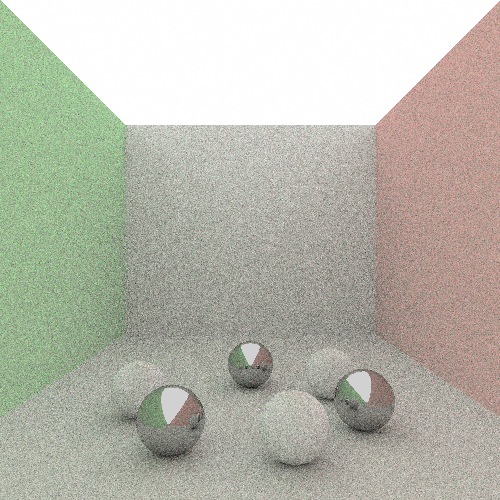
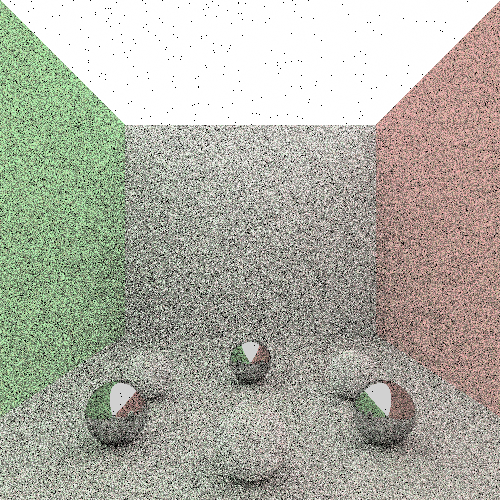
fix sphere alignment

diff --git a/main.go b/main.go
@@ -16,29 +16,31 @@ func main() {
 func buildScene(size float64) *render.Scene {
 	scene := render.NewScene()
 	diffuseMaterial := material.NewDiffuseMaterial(geometry.NewVector(1., 1., 1.), 1.)
-	// redColorMaterial := material.NewDiffuseMaterial(geometry.NewVector(1., 0., 0.), 1.)
-	// greenColorMaterial := material.NewDiffuseMaterial(geometry.NewVector(0., 1., 0.), 1.)
-	// emissiveMaterial := material.NewEmissiveMaterial(geometry.NewVector(1., 1., 1.), 1.)
+	redColorMaterial := material.NewDiffuseMaterial(geometry.NewVector(1., 0., 0.), 1.)
+	greenColorMaterial := material.NewDiffuseMaterial(geometry.NewVector(0., 1., 0.), 1.)
+	emissiveMaterial := material.NewEmissiveMaterial(geometry.NewVector(1., 1., 1.), 1.)
 	reflectiveMaterial := material.NewReflectiveMaterial(.8, 1.)
 
 	floorY := .5*size/2 + size/2
-	// ceilingY := -.75*size/2 + size/2
+	ceilingY := -.75*size/2 + size/2
 
-	// scene.AddObject(diffuseMaterial, geometry.NewPlane(geometry.NewVector(0, 0, .5*size), geometry.NewVector(0, 0, -1.)))
-	// scene.AddObject(diffuseMaterial, geometry.NewPlane(geometry.NewVector(0, 0, -5*size), geometry.NewVector(0, 0, 1.)))
+	scene.AddObject(diffuseMaterial, geometry.NewPlane(geometry.NewVector(0, 0, .5*size), geometry.NewVector(0, 0, -1.)))
+	scene.AddObject(diffuseMaterial, geometry.NewPlane(geometry.NewVector(0, 0, -5*size), geometry.NewVector(0, 0, 1.)))
 
-	// scene.AddObject(redColorMaterial, geometry.NewPlane(geometry.NewVector(.75*size/2+size/2, 0, 0), geometry.NewVector(-1., 0, 0)))
-	// scene.AddObject(greenColorMaterial, geometry.NewPlane(geometry.NewVector(-.75*size/2+size/2, 0, 0), geometry.NewVector(1., 0, 0)))
+	scene.AddObject(redColorMaterial, geometry.NewPlane(geometry.NewVector(.75*size/2+size/2, 0, 0), geometry.NewVector(-1., 0, 0)))
+	scene.AddObject(greenColorMaterial, geometry.NewPlane(geometry.NewVector(-.75*size/2+size/2, 0, 0), geometry.NewVector(1., 0, 0)))
 
-	// scene.AddObject(emissiveMaterial, geometry.NewPlane(geometry.NewVector(0, ceilingY, 0), geometry.NewVector(0, 1., 0)))
-	// scene.AddObject(diffuseMaterial, geometry.NewPlane(geometry.NewVector(0, floorY, 0), geometry.NewVector(0, -1., 0)))
+	scene.AddObject(emissiveMaterial, geometry.NewPlane(geometry.NewVector(0, ceilingY, 0), geometry.NewVector(0, 1., 0)))
+	scene.AddObject(diffuseMaterial, geometry.NewPlane(geometry.NewVector(0, floorY, 0), geometry.NewVector(0, -1., 0)))
 
 	sphereCount := 6
-	radius := size / 24.
+	radius := 20.
 	for i := 0; i < sphereCount; i++ {
-		angle := float64(1.8*math.Pi/float64(sphereCount)) * float64(i)
-		spherePosition := geometry.NewVector(math.Sin(angle)*size/6.+size/2., floorY-radius, math.Cos(angle)*size/6.-size/4.)
-		sphere := geometry.NewSphere(spherePosition, radius)
+		angle := float64(2.*math.Pi/float64(sphereCount)) * float64(i)
+		circleRadius := 100.
+		circlePosition := geometry.NewVector(math.Sin(angle)*circleRadius, floorY, math.Cos(angle)*circleRadius)
+		offsetPosition := geometry.NewVector(size/2, -radius, -size/4)
+		sphere := geometry.NewSphere(offsetPosition.Add(circlePosition), radius)
 
 		var mat material.Material
 		if i%2 != 0 {
